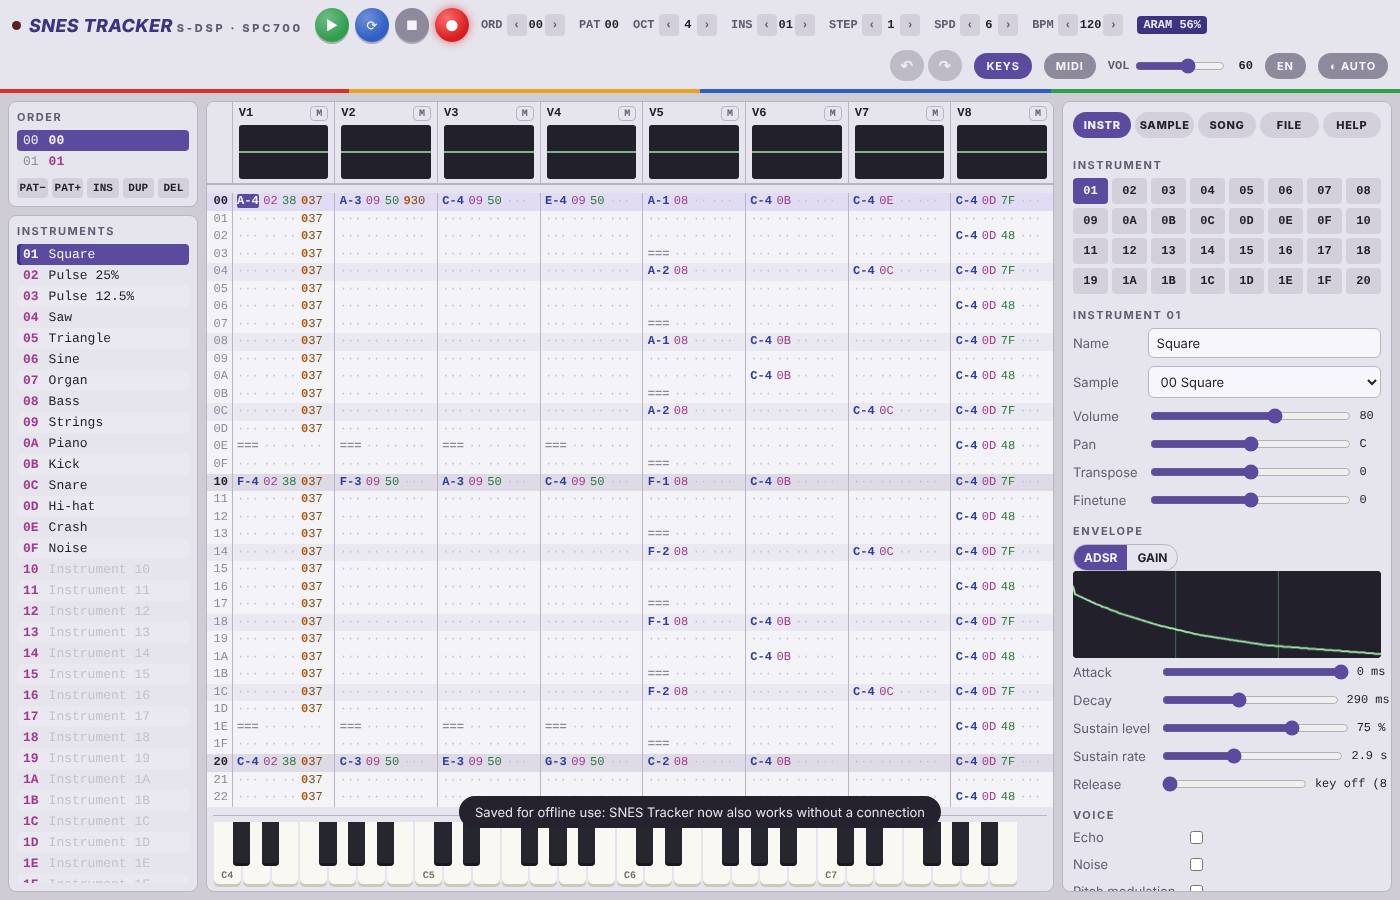
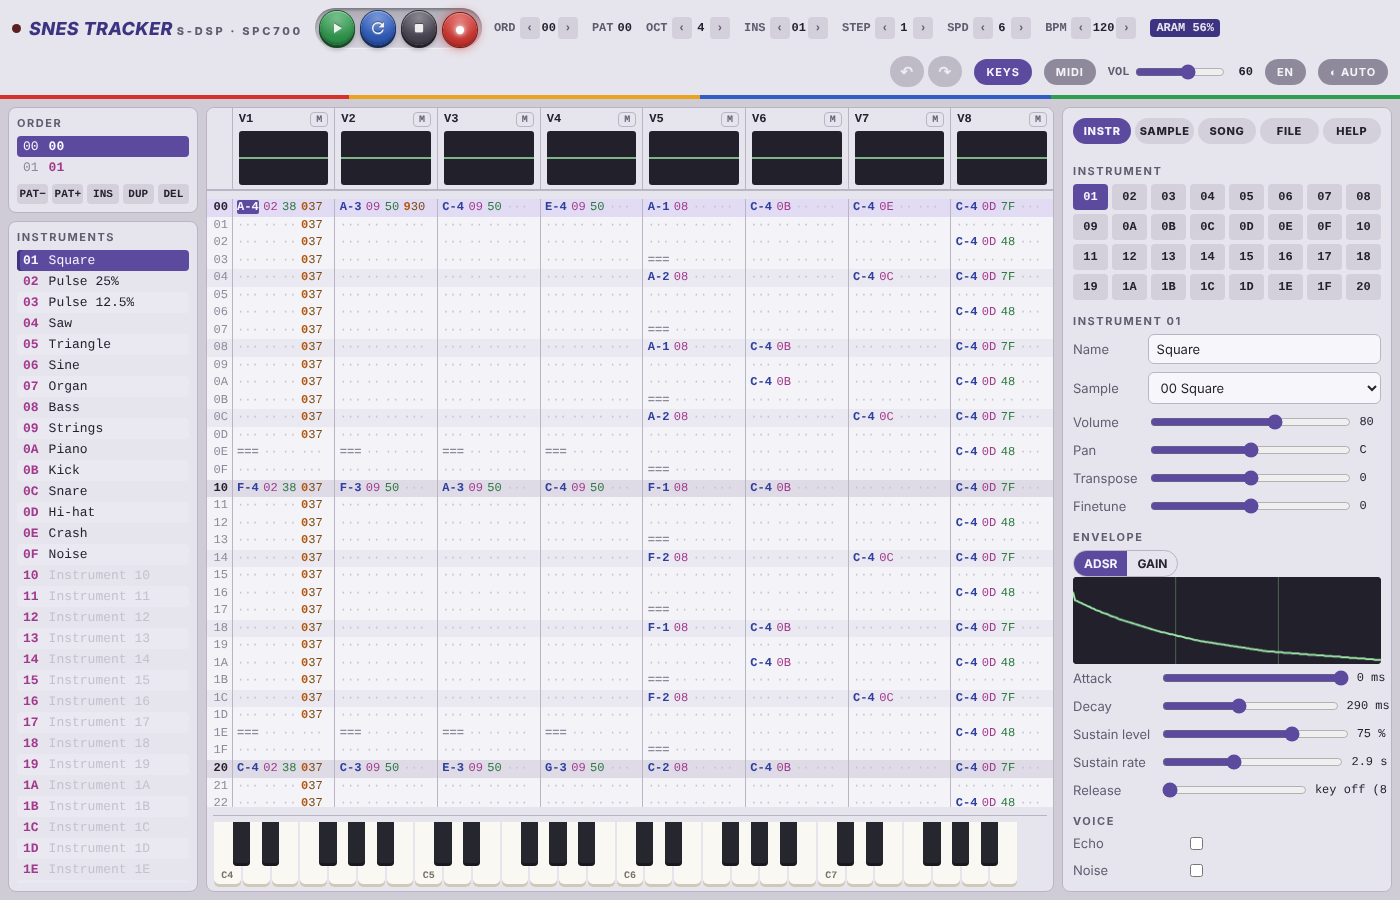
Redesign the transport buttons as Super Famicom pad buttons
The play, loop, stop and record buttons were glossy blobs with Unicode
glyphs that render differently on every platform. They now sit in a
recessed tray like the pad's button well, as matte domed buttons with an
engraved SVG glyph that sink in while held or latched. Play and loop keep
the Y and X colours, stop is grey Select/Start rubber, and record is grey
with a dark lamp when off and the lit red A button when on.

The manual's screenshots are re-rendered by the new
scripts/manual-images.mjs, and the record-mode text matches the new look.

Claude-Session: https://claude.ai/code/session_01Bz4qZk2x3SH7j8hwZAgC6t

diff --git a/src/style.css b/src/style.css
@@ -93,62 +93,111 @@ button {
   box-shadow: 0 0 6px #ff3b3b;
 }
 
+/* The transport sits in a recessed tray like the button well of the Super Famicom pad. */
 .transport {
   display: flex;
-  gap: 6px;
+  align-items: center;
+  gap: 7px;
+  padding: 3px 5px;
+  border-radius: 999px;
+  background: linear-gradient(color-mix(in srgb, var(--surface-2) 82%, #000), var(--surface-2));
+  box-shadow:
+    inset 0 2px 3px rgb(0 0 0 / 0.3),
+    inset 0 -1px 0 rgb(255 255 255 / 0.25),
+    0 1px 0 rgb(255 255 255 / 0.45);
 }
 
-.round-btn {
+/* Matte, slightly domed face buttons with an engraved glyph; they sink in while held or latched. */
+.pad-btn {
+  --face: #4a4655;
+  --glyph: rgb(255 255 255 / 0.9);
+  display: grid;
+  place-items: center;
   width: 34px;
   height: 34px;
-  border-radius: 50%;
+  padding: 0;
   border: 0;
-  background: radial-gradient(circle at 35% 30%, var(--accent-hi), var(--accent) 65%);
-  color: var(--accent-ink);
-  font-size: 13px;
-  box-shadow: 0 2px 0 rgb(0 0 0 / 0.25);
+  border-radius: 50%;
+  color: var(--glyph);
+  background:
+    radial-gradient(circle at 50% 22%, rgb(255 255 255 / 0.3), transparent 58%),
+    linear-gradient(color-mix(in srgb, var(--face) 90%, #fff), color-mix(in srgb, var(--face) 86%, #000));
+  box-shadow:
+    inset 0 1px 0 rgb(255 255 255 / 0.35),
+    inset 0 -2px 3px rgb(0 0 0 / 0.25),
+    0 0 0 1px color-mix(in srgb, var(--face) 55%, #000),
+    0 2px 0 1px color-mix(in srgb, var(--face) 45%, #000),
+    0 4px 5px rgb(0 0 0 / 0.3);
+  transition:
+    transform 70ms ease-out,
+    box-shadow 70ms ease-out,
+    filter 120ms;
   touch-action: manipulation;
 }
 
-.round-btn.dark {
-  background: var(--pill);
-  color: var(--pill-ink);
+.pad-btn svg {
+  width: 18px;
+  height: 18px;
+  fill: currentColor;
+  filter: drop-shadow(0 -1px 0 rgb(0 0 0 / 0.35)) drop-shadow(0 1px 0 rgb(255 255 255 / 0.2));
+  transition:
+    color 120ms,
+    filter 120ms;
 }
 
-/* Play and loop in the colours of the pad's Y and X buttons. */
-#play-song {
-  background: radial-gradient(circle at 35% 30%, color-mix(in srgb, var(--btn-y) 70%, white), var(--btn-y) 65%);
+/* Play and loop in the colours of the pad's Y and X buttons, stop in the grey rubber of Select/Start. */
+.pad-btn.play {
+  --face: var(--btn-y);
+}
+
+.pad-btn.loop {
+  --face: var(--btn-x);
+}
+
+/* Record off: grey rubber with a dark red lamp. On: the red A button with the lamp lit. */
+.pad-btn.rec {
+  --glyph: #7d2a2a;
+}
+
+.pad-btn.rec[aria-pressed='true'] {
+  --face: var(--btn-a);
+  --glyph: #fff;
+}
+
+@media (hover: hover) {
+  .pad-btn:hover {
+    filter: brightness(1.07);
+  }
+}
+
+.pad-btn:active,
+.pad-btn[aria-pressed='true'] {
+  transform: translateY(2px);
+  box-shadow:
+    inset 0 1px 0 rgb(255 255 255 / 0.25),
+    inset 0 -1px 2px rgb(0 0 0 / 0.25),
+    0 0 0 1px color-mix(in srgb, var(--face) 55%, #000),
+    0 0 0 1px color-mix(in srgb, var(--face) 45%, #000),
+    0 1px 2px rgb(0 0 0 / 0.3);
+}
+
+.pad-btn[aria-pressed='true'] {
+  box-shadow:
+    inset 0 1px 0 rgb(255 255 255 / 0.25),
+    inset 0 -1px 2px rgb(0 0 0 / 0.25),
+    0 0 0 1px color-mix(in srgb, var(--face) 55%, #000),
+    0 1px 2px rgb(0 0 0 / 0.3),
+    0 0 10px 1px color-mix(in srgb, var(--face) 65%, transparent);
+}
+
+.pad-btn[aria-pressed='true'] svg {
   color: #fff;
-}
-
-#play-pattern {
-  background: radial-gradient(circle at 35% 30%, color-mix(in srgb, var(--btn-x) 70%, white), var(--btn-x) 65%);
-  color: #fff;
-}
-
-.round-btn.rec {
-  background: var(--pill);
-  color: var(--pill-ink);
-  font-size: 15px;
-}
-
-.round-btn.rec[aria-pressed='true'] {
-  background: radial-gradient(circle at 35% 30%, #ff6b6b, #d61f1f 65%);
-  color: #fff;
-  box-shadow: 0 0 8px rgb(214 31 31 / 0.6);
+  filter: drop-shadow(0 0 2px rgb(255 255 255 / 0.9)) drop-shadow(0 0 5px color-mix(in srgb, var(--face) 40%, #fff));
 }
 
 #app[data-rec='off'] .cell .cursor {
   background: var(--pill);
   color: var(--pill-ink) !important;
-}
-
-.round-btn[aria-pressed='true'] {
-  box-shadow: 0 0 0 3px var(--surface), 0 0 0 5px var(--accent);
-}
-
-.round-btn:active {
-  transform: translateY(1px);
 }
 
 .fields {
@@ -1108,9 +1157,19 @@ a.btn {
     font-size: 15px;
   }
 
-  .round-btn {
+  .transport {
+    gap: 4px;
+    padding: 3px;
+  }
+
+  .pad-btn {
     width: 30px;
     height: 30px;
+  }
+
+  .pad-btn svg {
+    width: 16px;
+    height: 16px;
   }
 
   .piano {

diff --git a/src/main.ts b/src/main.ts
@@ -226,16 +226,18 @@ const app = document.getElementById('app')!;
 app.dataset.view = 'pattern';
 setLocale(loadStored(LANG_KEY) ?? matchLocale(navigator.languages ?? [navigator.language]));
 document.documentElement.lang = getLocale();
+/** A 24x24 transport glyph; drawn as SVG so it looks the same on every platform, unlike ▶ ■ ● ⟳. */
+const icon = (shape: string) => `<svg viewBox="0 0 24 24" aria-hidden="true">${shape}</svg>`;
 const stepper = (id: string, label: MessageKey, title: MessageKey) =>
   `<span class="field" data-i18n-title="${title}"><span data-i18n="${label}"></span> <span class="stepper"><button type="button" id="${id}-down" data-step-name="${title}" data-step-dir="down">‹</button><output id="${id}"></output><button type="button" id="${id}-up" data-step-name="${title}" data-step-dir="up">›</button></span></span>`;
 app.innerHTML = `
   <header class="toolbar">
     <div class="brand"><span class="led" id="play-led" data-i18n-title="app.playing"></span><h1>SNES TRACKER<span>S-DSP · SPC700</span></h1></div>
     <div class="transport">
-      <button type="button" class="round-btn" id="play-song" data-i18n-title="transport.playSong" data-i18n-aria-label="transport.playSongLabel">▶</button>
-      <button type="button" class="round-btn" id="play-pattern" data-i18n-title="transport.loopPattern" data-i18n-aria-label="transport.loopPatternLabel">⟳</button>
-      <button type="button" class="round-btn dark" id="stop" data-i18n-title="transport.stop" data-i18n-aria-label="transport.stop">■</button>
-      <button type="button" class="round-btn rec" id="rec" data-i18n-title="transport.rec" data-i18n-aria-label="transport.recLabel">●</button>
+      <button type="button" class="pad-btn play" id="play-song" data-i18n-title="transport.playSong" data-i18n-aria-label="transport.playSongLabel">${icon('<path d="M8 5.5v13l10.5-6.5z"/>')}</button>
+      <button type="button" class="pad-btn loop" id="play-pattern" data-i18n-title="transport.loopPattern" data-i18n-aria-label="transport.loopPatternLabel">${icon('<path d="M17.65 6.35A8 8 0 1 0 19.73 14h-2.08A6 6 0 1 1 12 6c1.66 0 3.14.69 4.22 1.78L13 11h7V4z"/>')}</button>
+      <button type="button" class="pad-btn stop" id="stop" data-i18n-title="transport.stop" data-i18n-aria-label="transport.stop">${icon('<rect x="6.5" y="6.5" width="11" height="11" rx="1.5"/>')}</button>
+      <button type="button" class="pad-btn rec" id="rec" data-i18n-title="transport.rec" data-i18n-aria-label="transport.recLabel">${icon('<circle cx="12" cy="12" r="5.5"/>')}</button>
     </div>
     <div class="fields">
       ${stepper('ord', 'field.ord', 'field.ordTitle')}

diff --git a/docs/MANUAL.md b/docs/MANUAL.md
@@ -100,9 +100,9 @@ A note without an instrument keeps the one the voice played before.
 
 ### Record mode
 
-The red ● button (or `Esc`) switches record mode. With it **off** the keys and
-the piano only play; with it **on** they also write into the pattern. The
-setting is remembered.
+The ● button (or `Esc`) switches record mode. With it **off** (grey) the keys
+and the piano only play; with it **on** (lit red) they also write into the
+pattern. The setting is remembered.
 
 ### Entering values
 

diff --git a/README.md b/README.md
@@ -84,6 +84,7 @@ paths, so it runs at a domain root and under a sub-path alike.
 | `src/ui/`, `src/main.ts` | pattern editor, piano, scopes, the tracker UI |
 | `src/i18n/` | interface translations |
 | `docs/MANUAL.md` | the manual, rendered into `manual.html` at build time |
+| `docs/images/` | the manual's screenshots; `npm run build && node scripts/manual-images.mjs` renders them again |
 
 ### Analytics
 
